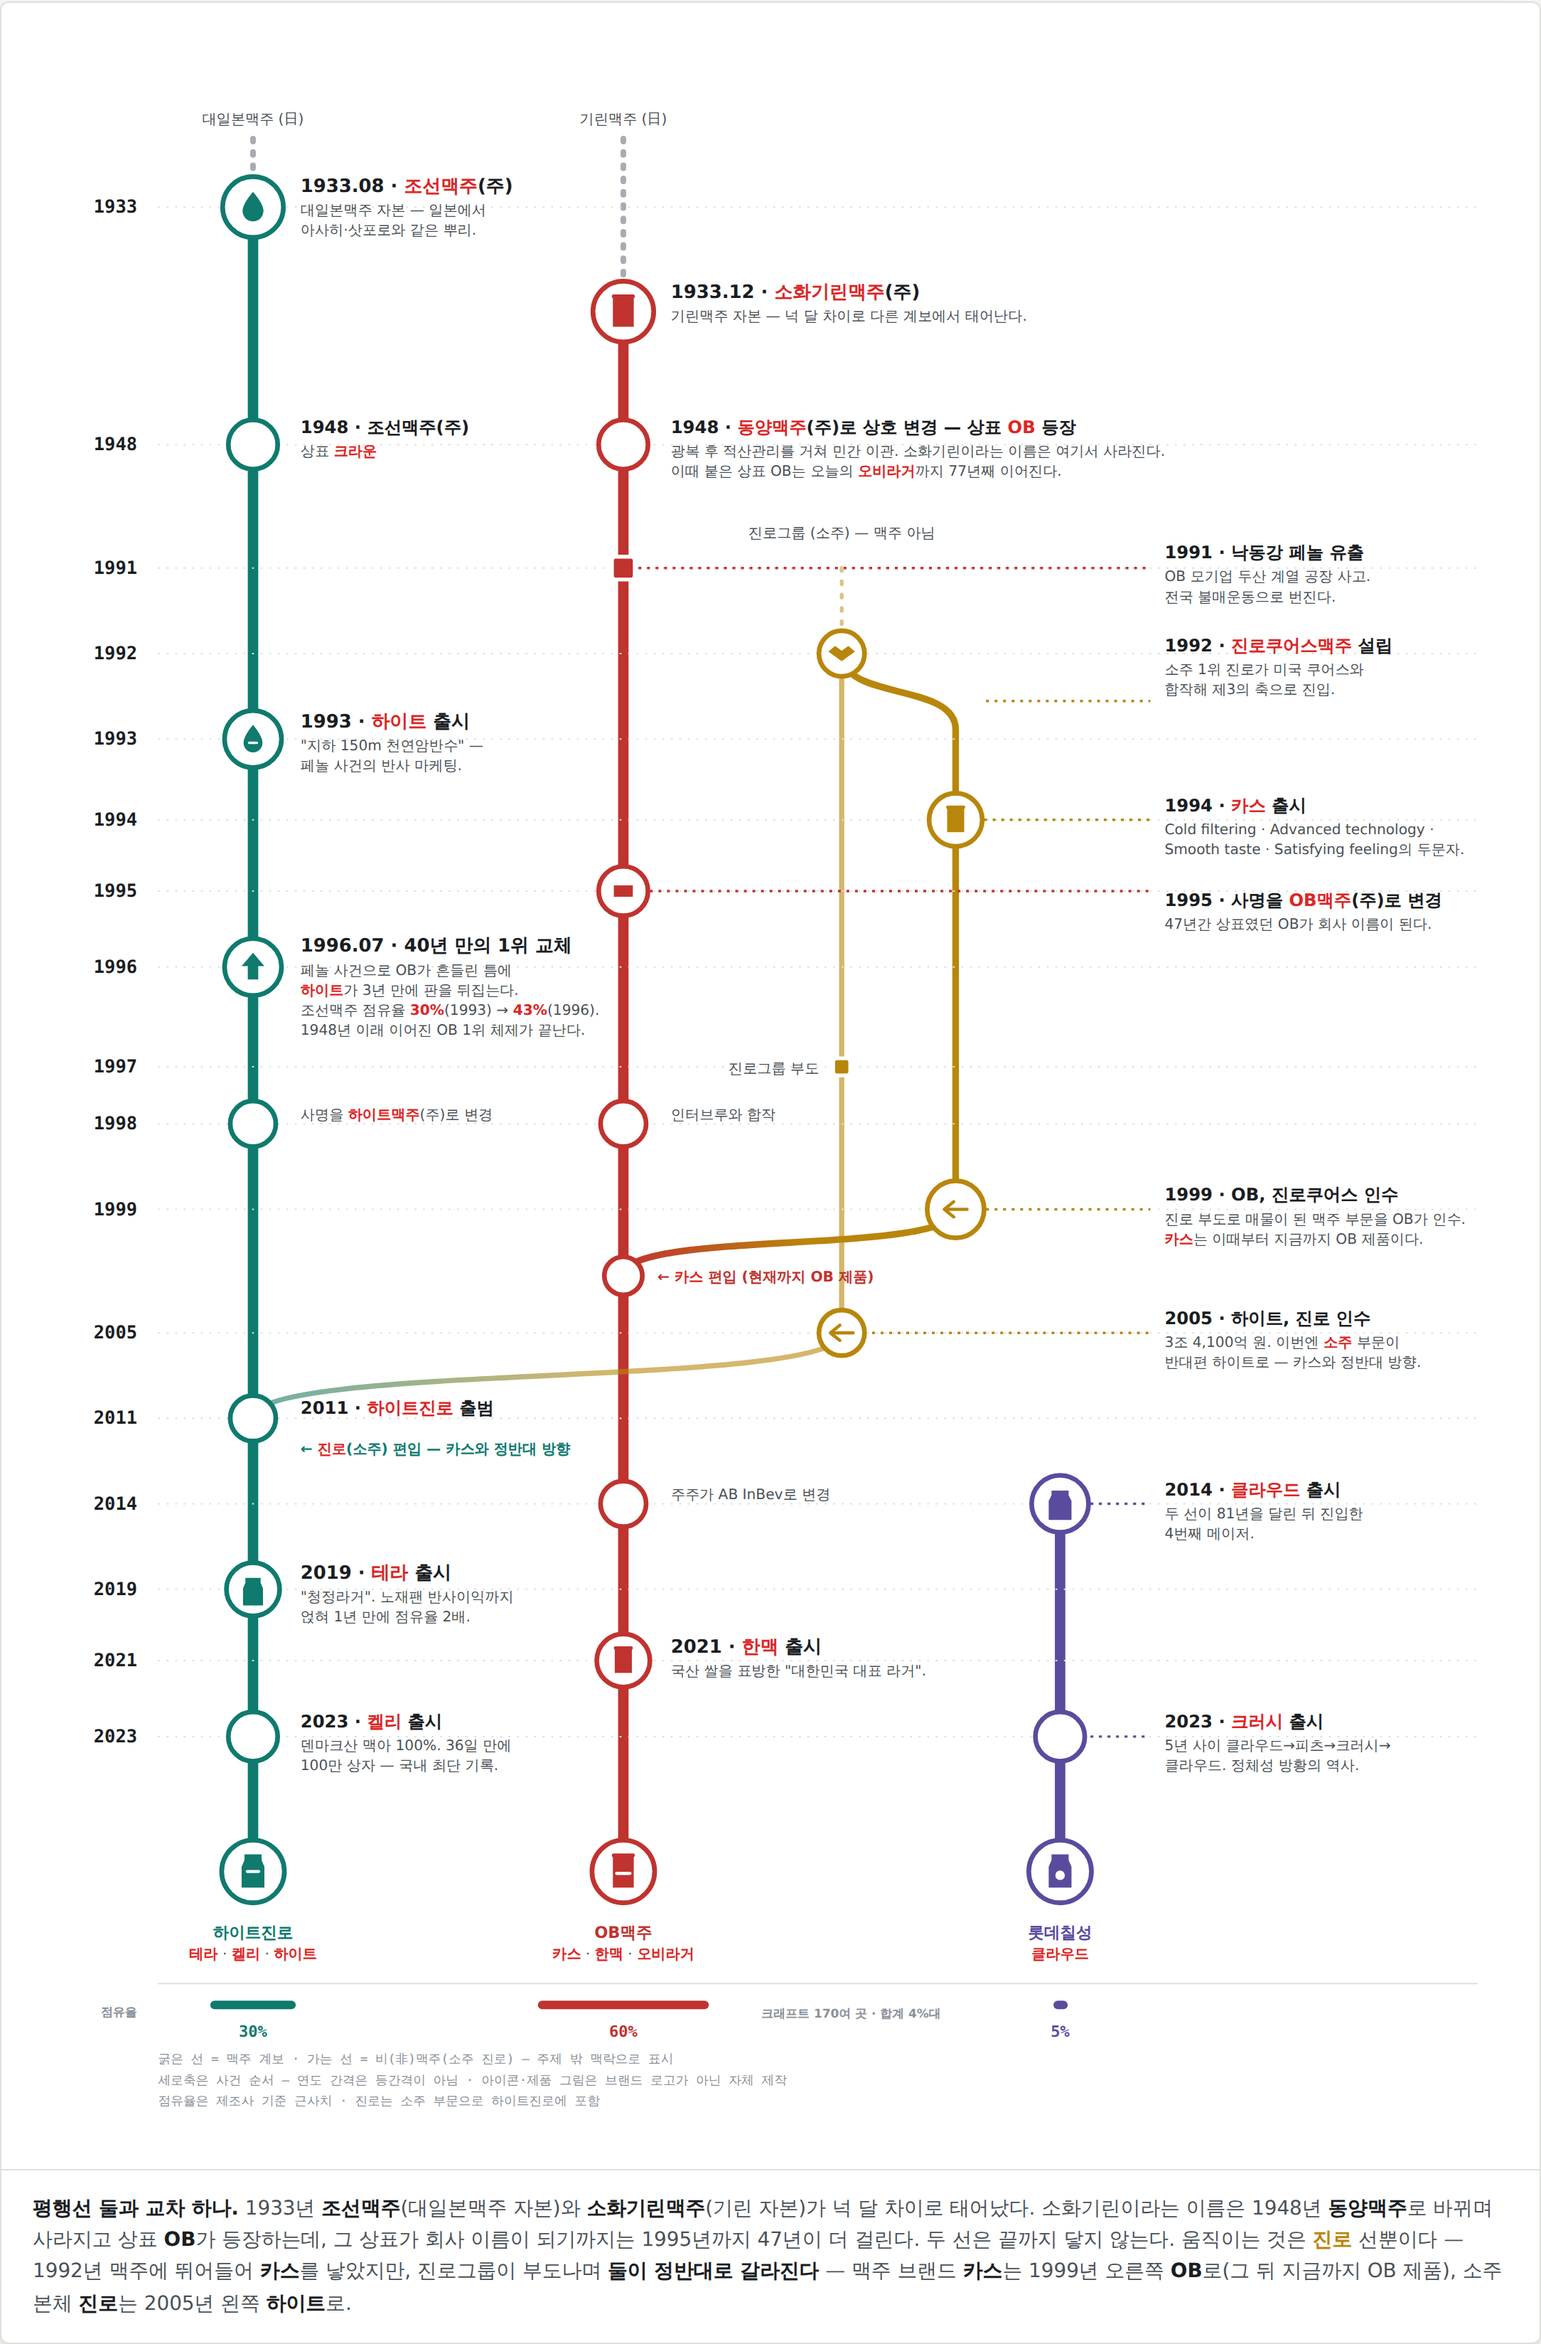
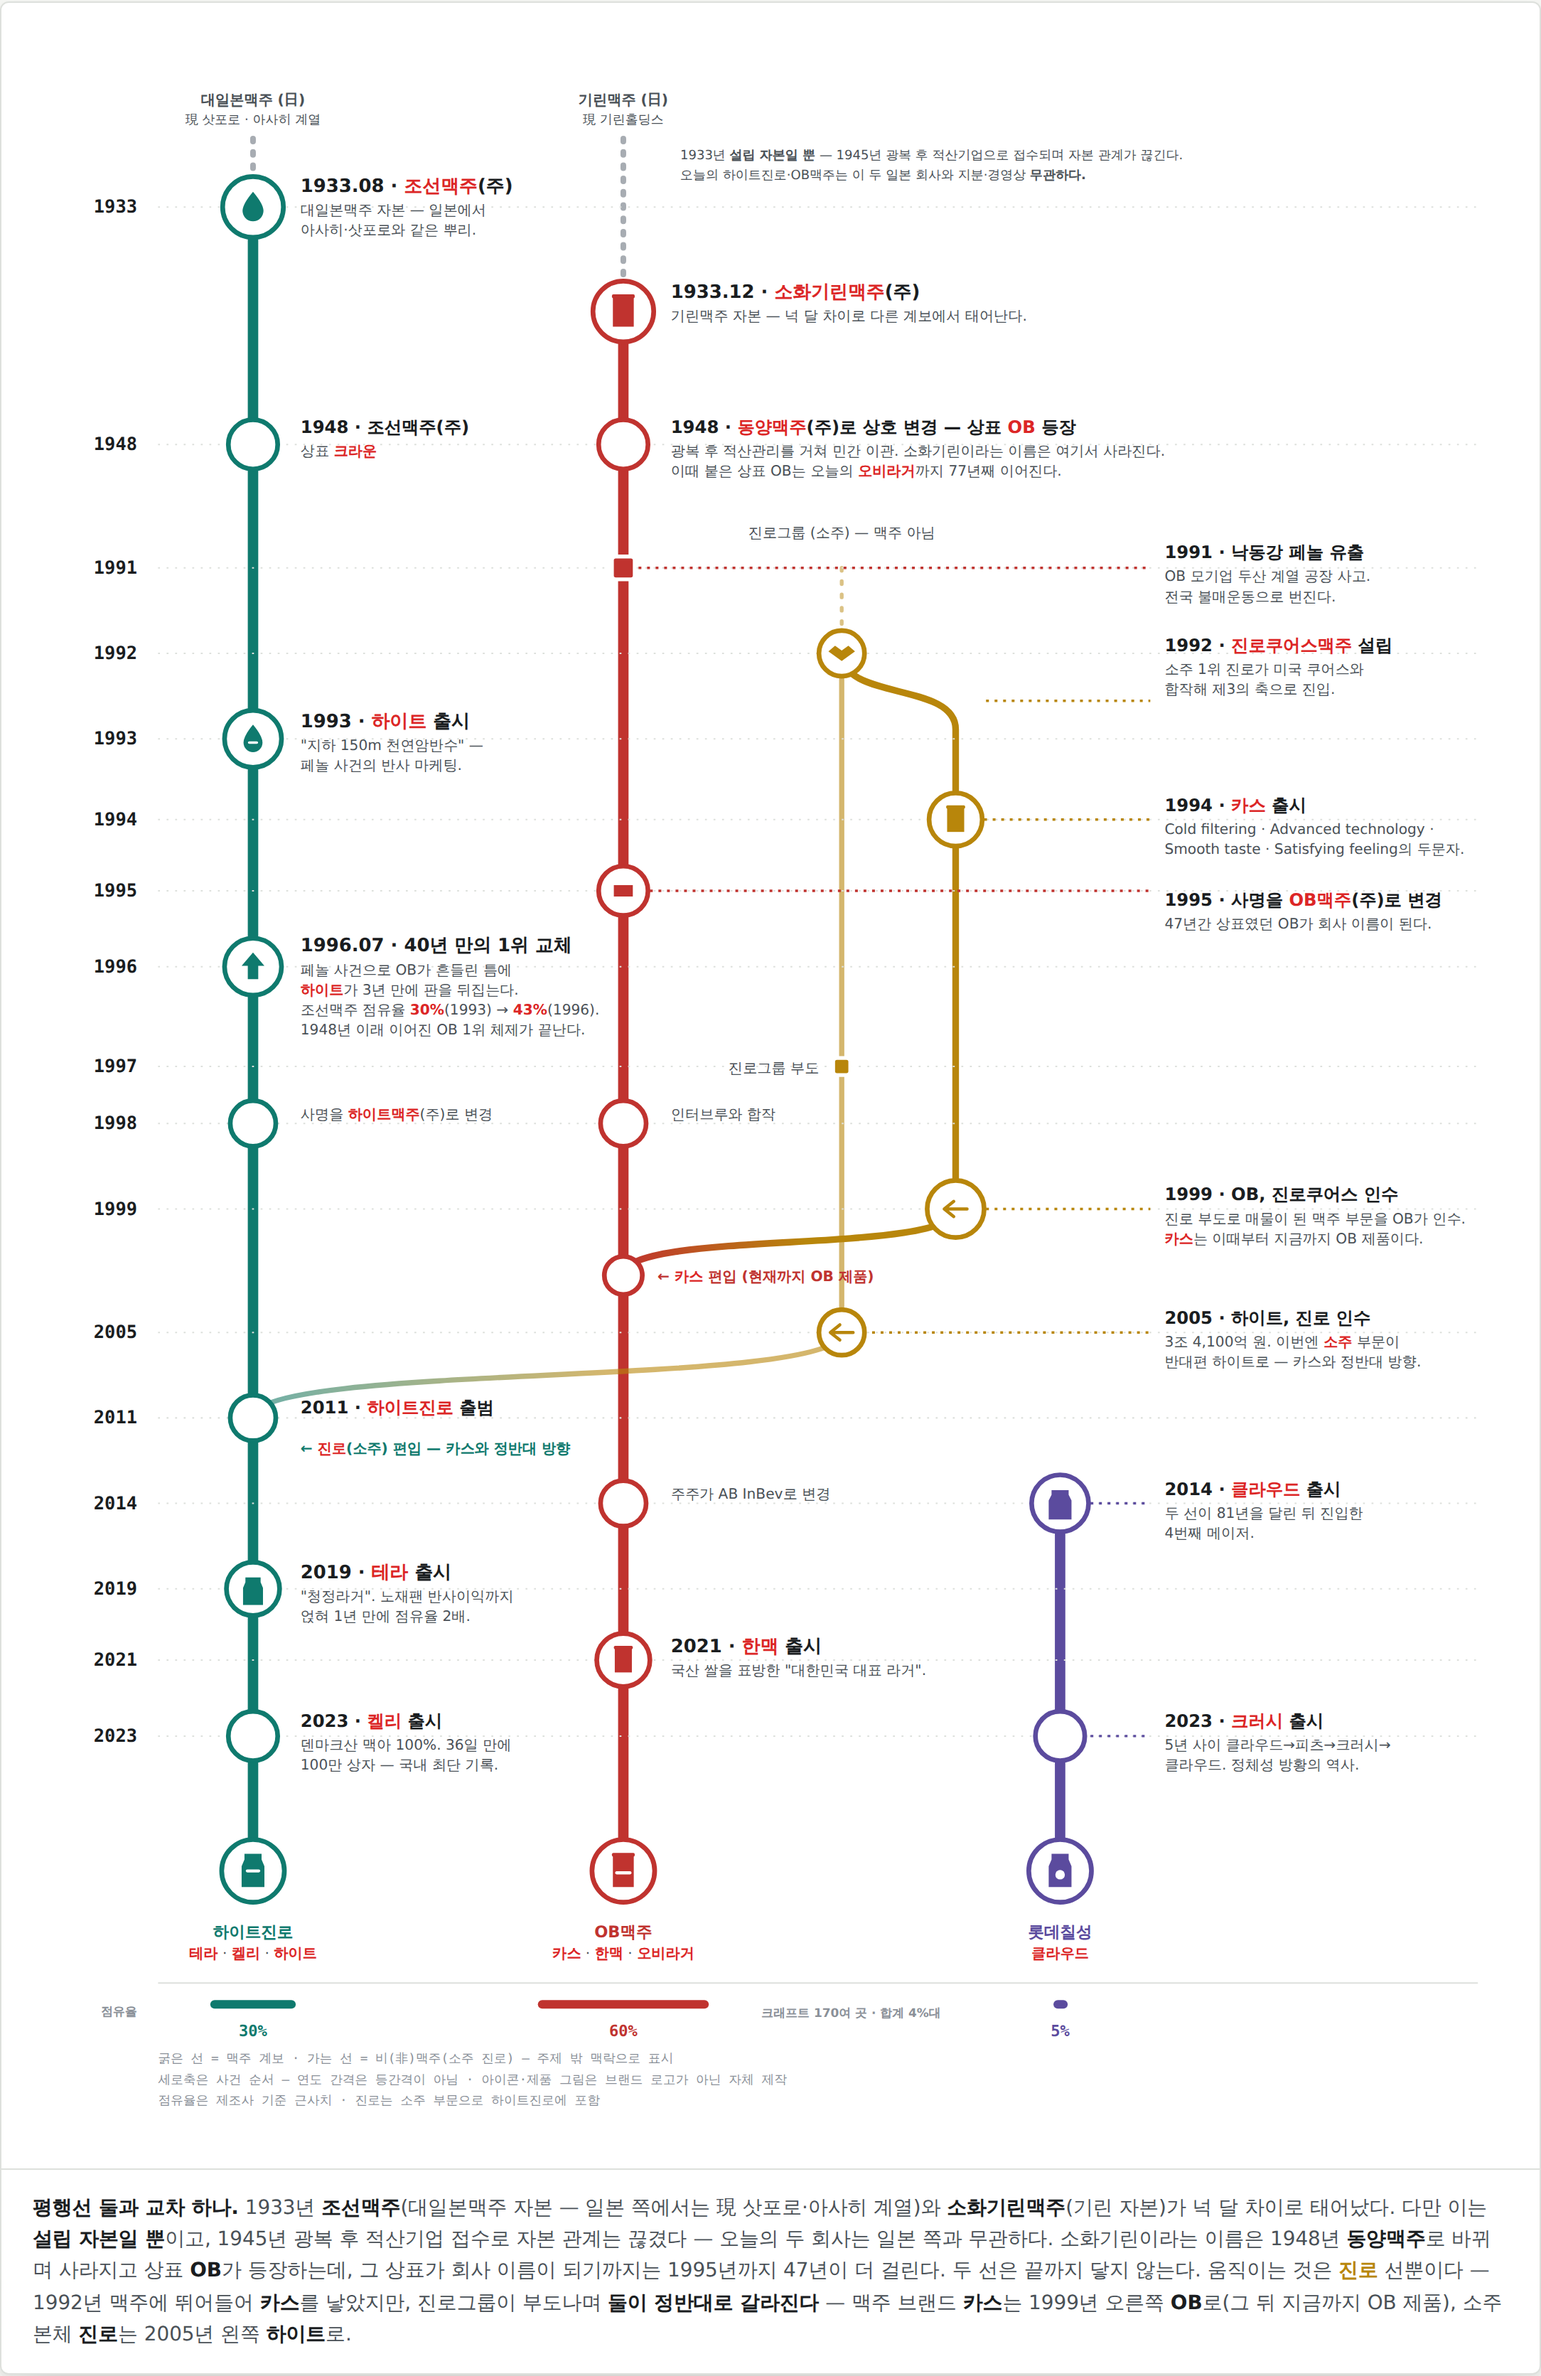
한국 계보도: 1933년 두 창업사의 일본 모회사 계열 표기 및 현재 무관함 명시
- 대일본맥주(現 삿포로·아사히 계열), 기린맥주(現 기린홀딩스)로 두 줄 표기
- 1945년 적산기업 접수로 자본 관계가 끊겨 오늘의 하이트진로·OB맥주는
  두 일본 회사와 지분·경영상 무관함을 본문과 캡션에 명시
- SVG/PNG 재생성

Claude-Session: https://claude.ai/code/session_01KUBqCbH6Pr7kL3zk5exDHD

diff --git a/genealogy/kr-infographic.html b/genealogy/kr-infographic.html
@@ -73,8 +73,12 @@
 </linearGradient>
 </defs>
 <path class="rib g gh" d="M250 128 L250 200"/><path class="rib g gh" d="M640 128 L640 310"/>
-<text class="bd" x="250" y="112" text-anchor="middle">대일본맥주 (日)</text>
-<text class="bd" x="640" y="112" text-anchor="middle">기린맥주 (日)</text>
+<text class="bd" x="250" y="92" text-anchor="middle" style="font-weight:700">대일본맥주 (日)</text>
+<text class="bd" x="250" y="112" text-anchor="middle" style="font-size:13.5px">現 삿포로 · 아사히 계열</text>
+<text class="bd" x="640" y="92" text-anchor="middle" style="font-weight:700">기린맥주 (日)</text>
+<text class="bd" x="640" y="112" text-anchor="middle" style="font-size:13.5px">現 기린홀딩스</text>
+<text class="bd" x="700" y="150" style="font-size:13.5px">1933년 <tspan style="font-weight:700">설립 자본일 뿐</tspan> — 1945년 광복 후 적산기업으로 접수되며 자본 관계가 끊긴다.</text>
+<text class="bd" x="700" y="171" style="font-size:13.5px">오늘의 하이트진로·OB맥주는 이 두 일본 회사와 지분·경영상 <tspan style="font-weight:700">무관하다.</tspan></text>
 <path class="rib h" d="M250 200 L250 1920"/>
 <path class="rib b" d="M640 310 L640 1920"/>
 <path class="rib j gh" style="stroke-width:4;opacity:.5" d="M870 580 L870 670"/>
@@ -247,7 +251,7 @@
 </div>
 <figcaption>
 <b>평행선 둘과 교차 하나.</b>
-1933년 <b>조선맥주</b>(대일본맥주 자본)와 <b>소화기린맥주</b>(기린 자본)가 넉 달 차이로 태어났다.
+1933년 <b>조선맥주</b>(대일본맥주 자본 — 일본 쪽에서는 現 삿포로·아사히 계열)와 <b>소화기린맥주</b>(기린 자본)가 넉 달 차이로 태어났다. 다만 이는 <b>설립 자본일 뿐</b>이고, 1945년 광복 후 적산기업 접수로 자본 관계는 끊겼다 — 오늘의 두 회사는 일본 쪽과 무관하다.
 소화기린이라는 이름은 1948년 <b>동양맥주</b>로 바뀌며 사라지고 상표 <b>OB</b>가 등장하는데,
 그 상표가 회사 이름이 되기까지는 1995년까지 47년이 더 걸린다.
 두 선은 끝까지 닿지 않는다. 움직이는 것은 <span style="color:var(--jinro);font-weight:700">진로</span> 선뿐이다 —
